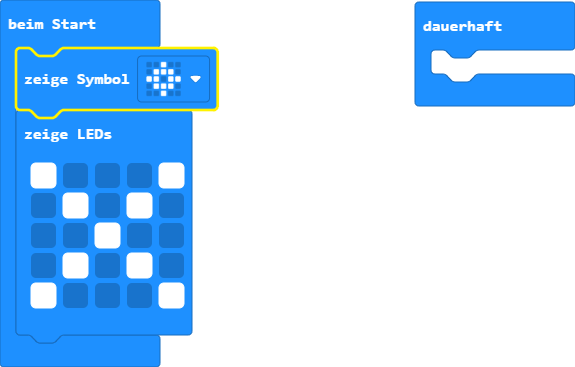
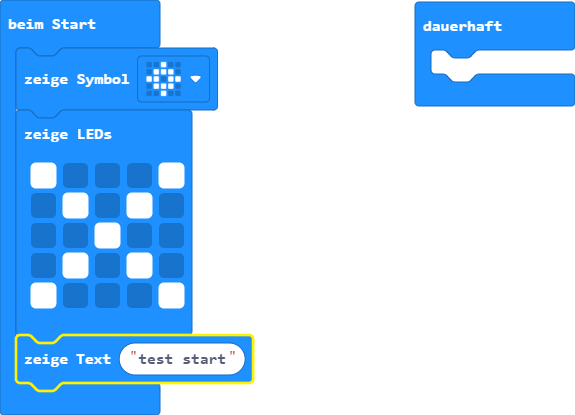
Aktualisiere pxt.json, main.blocks, main.ts

diff --git a/main.ts b/main.ts
@@ -6,6 +6,7 @@ basic.showLeds(`
     . # . # .
     # . . . #
     `)
+basic.showString("Hello charles Wellkom")
 basic.forever(function () {
 	
 })
